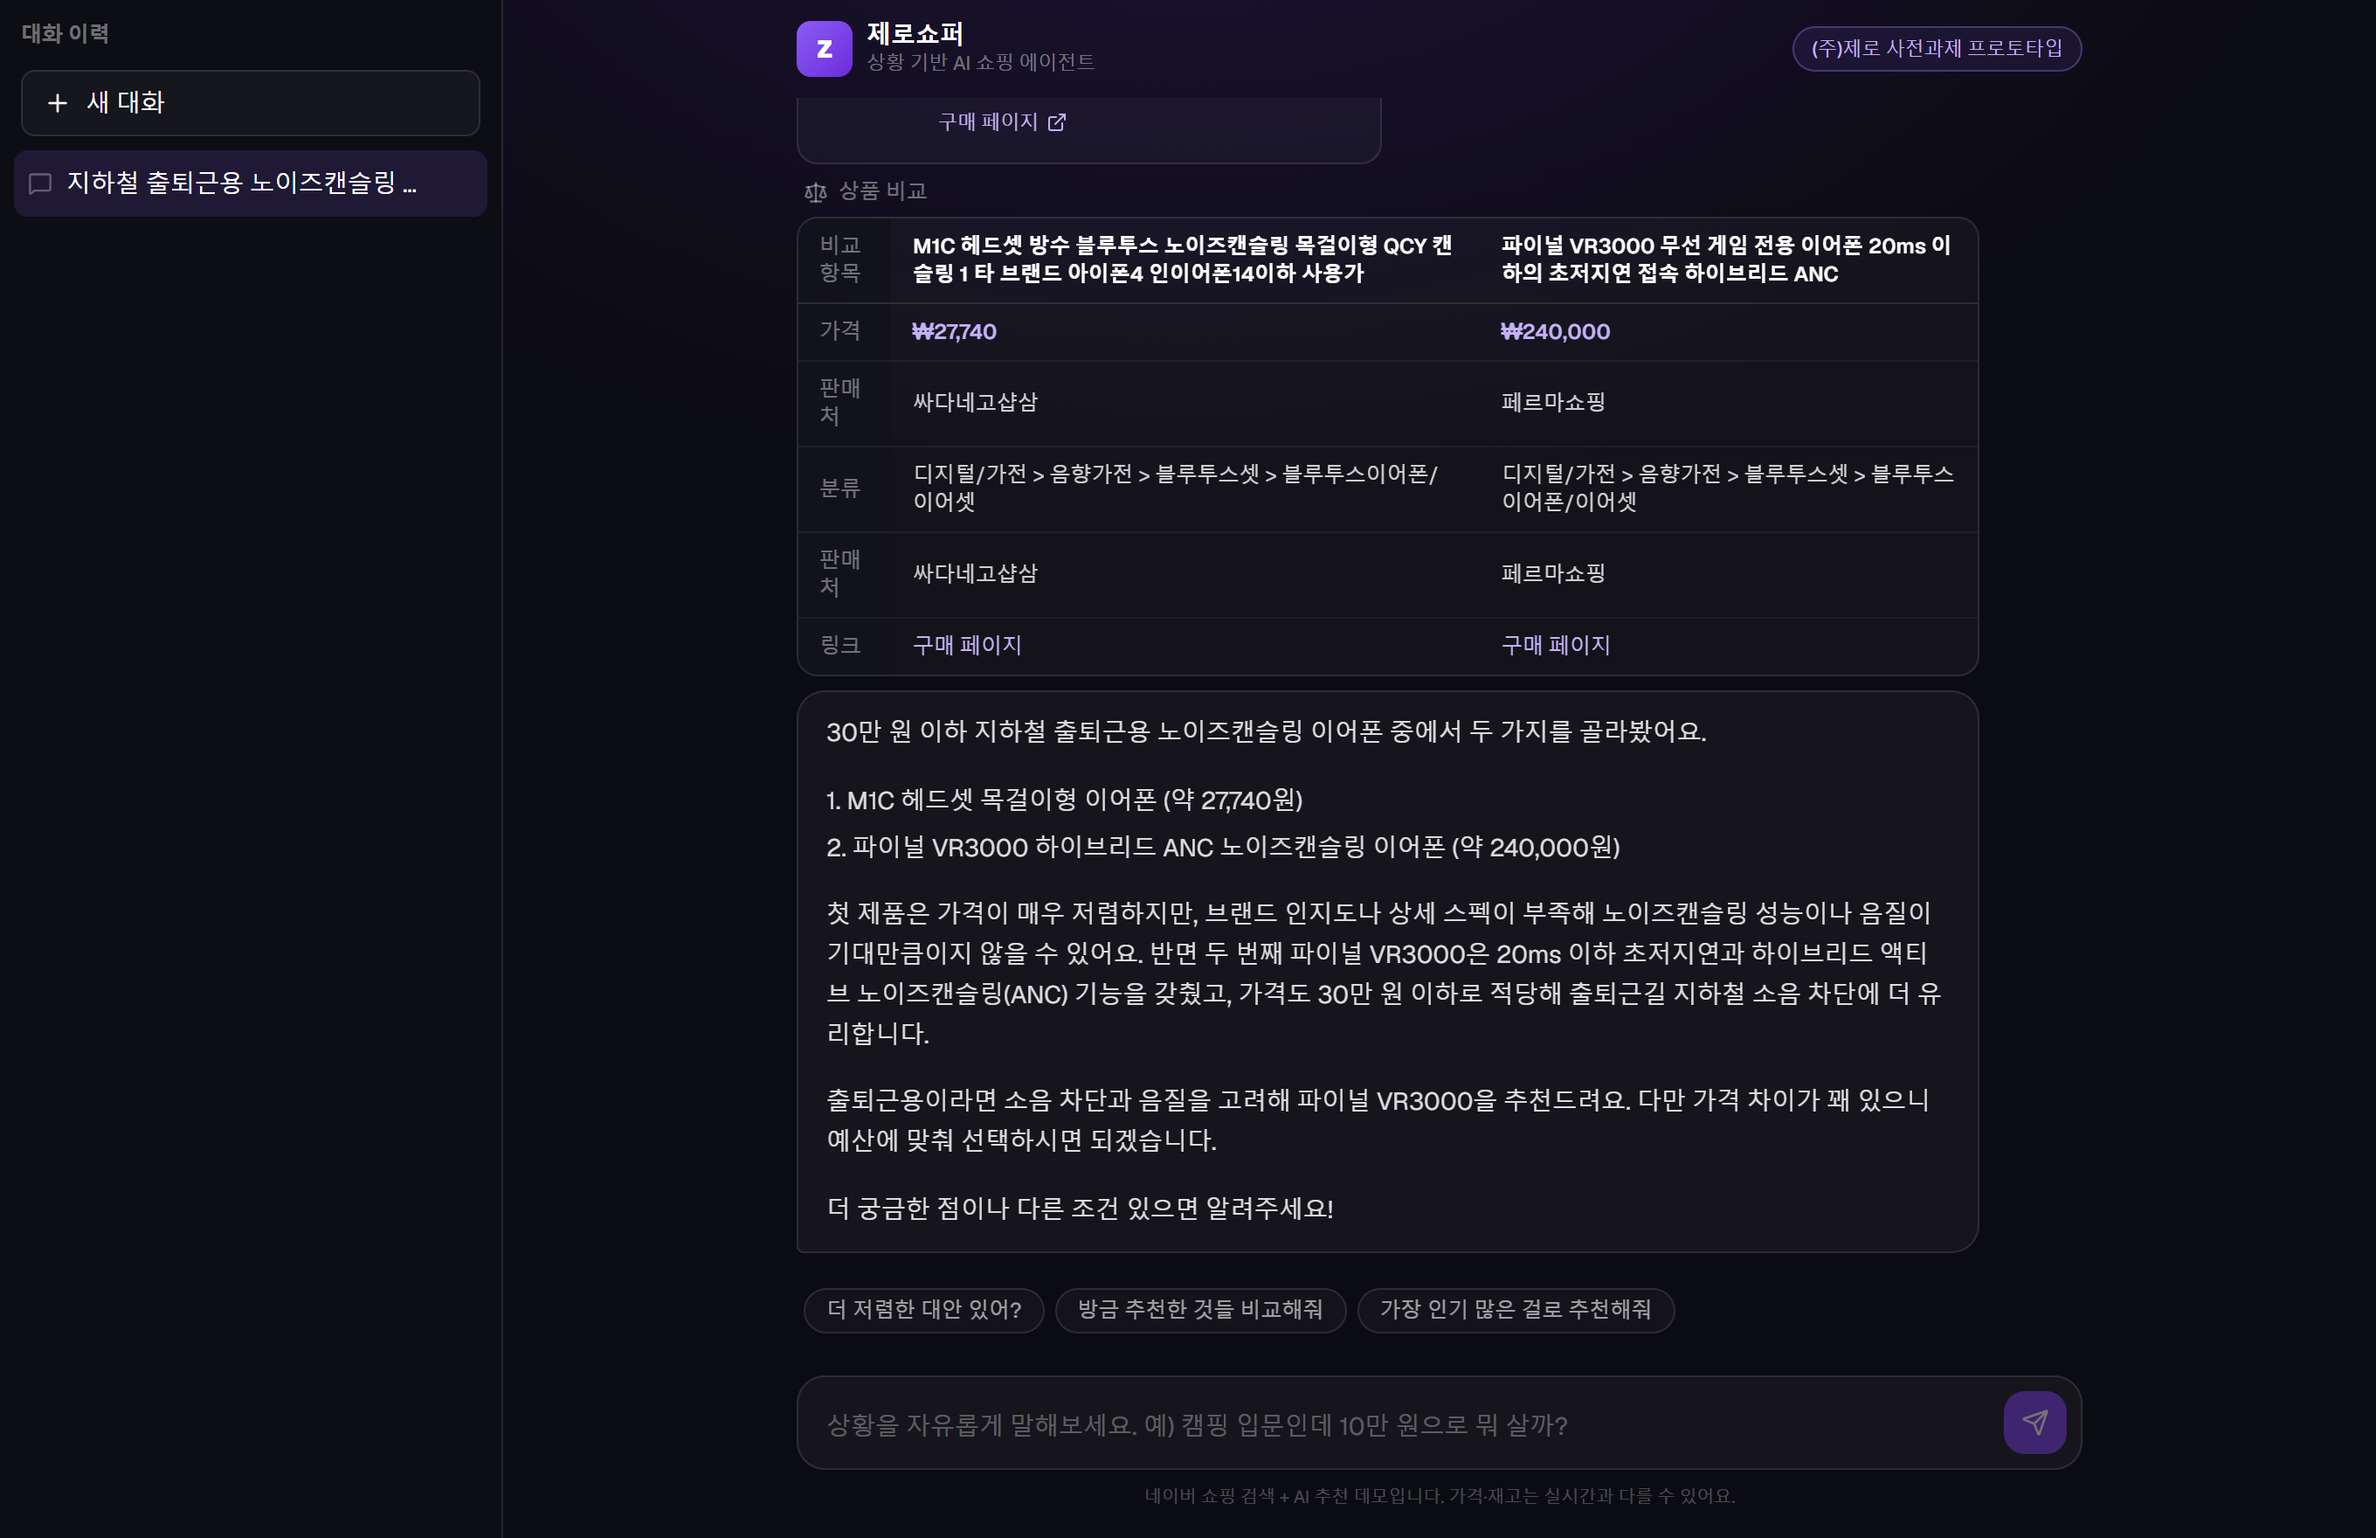
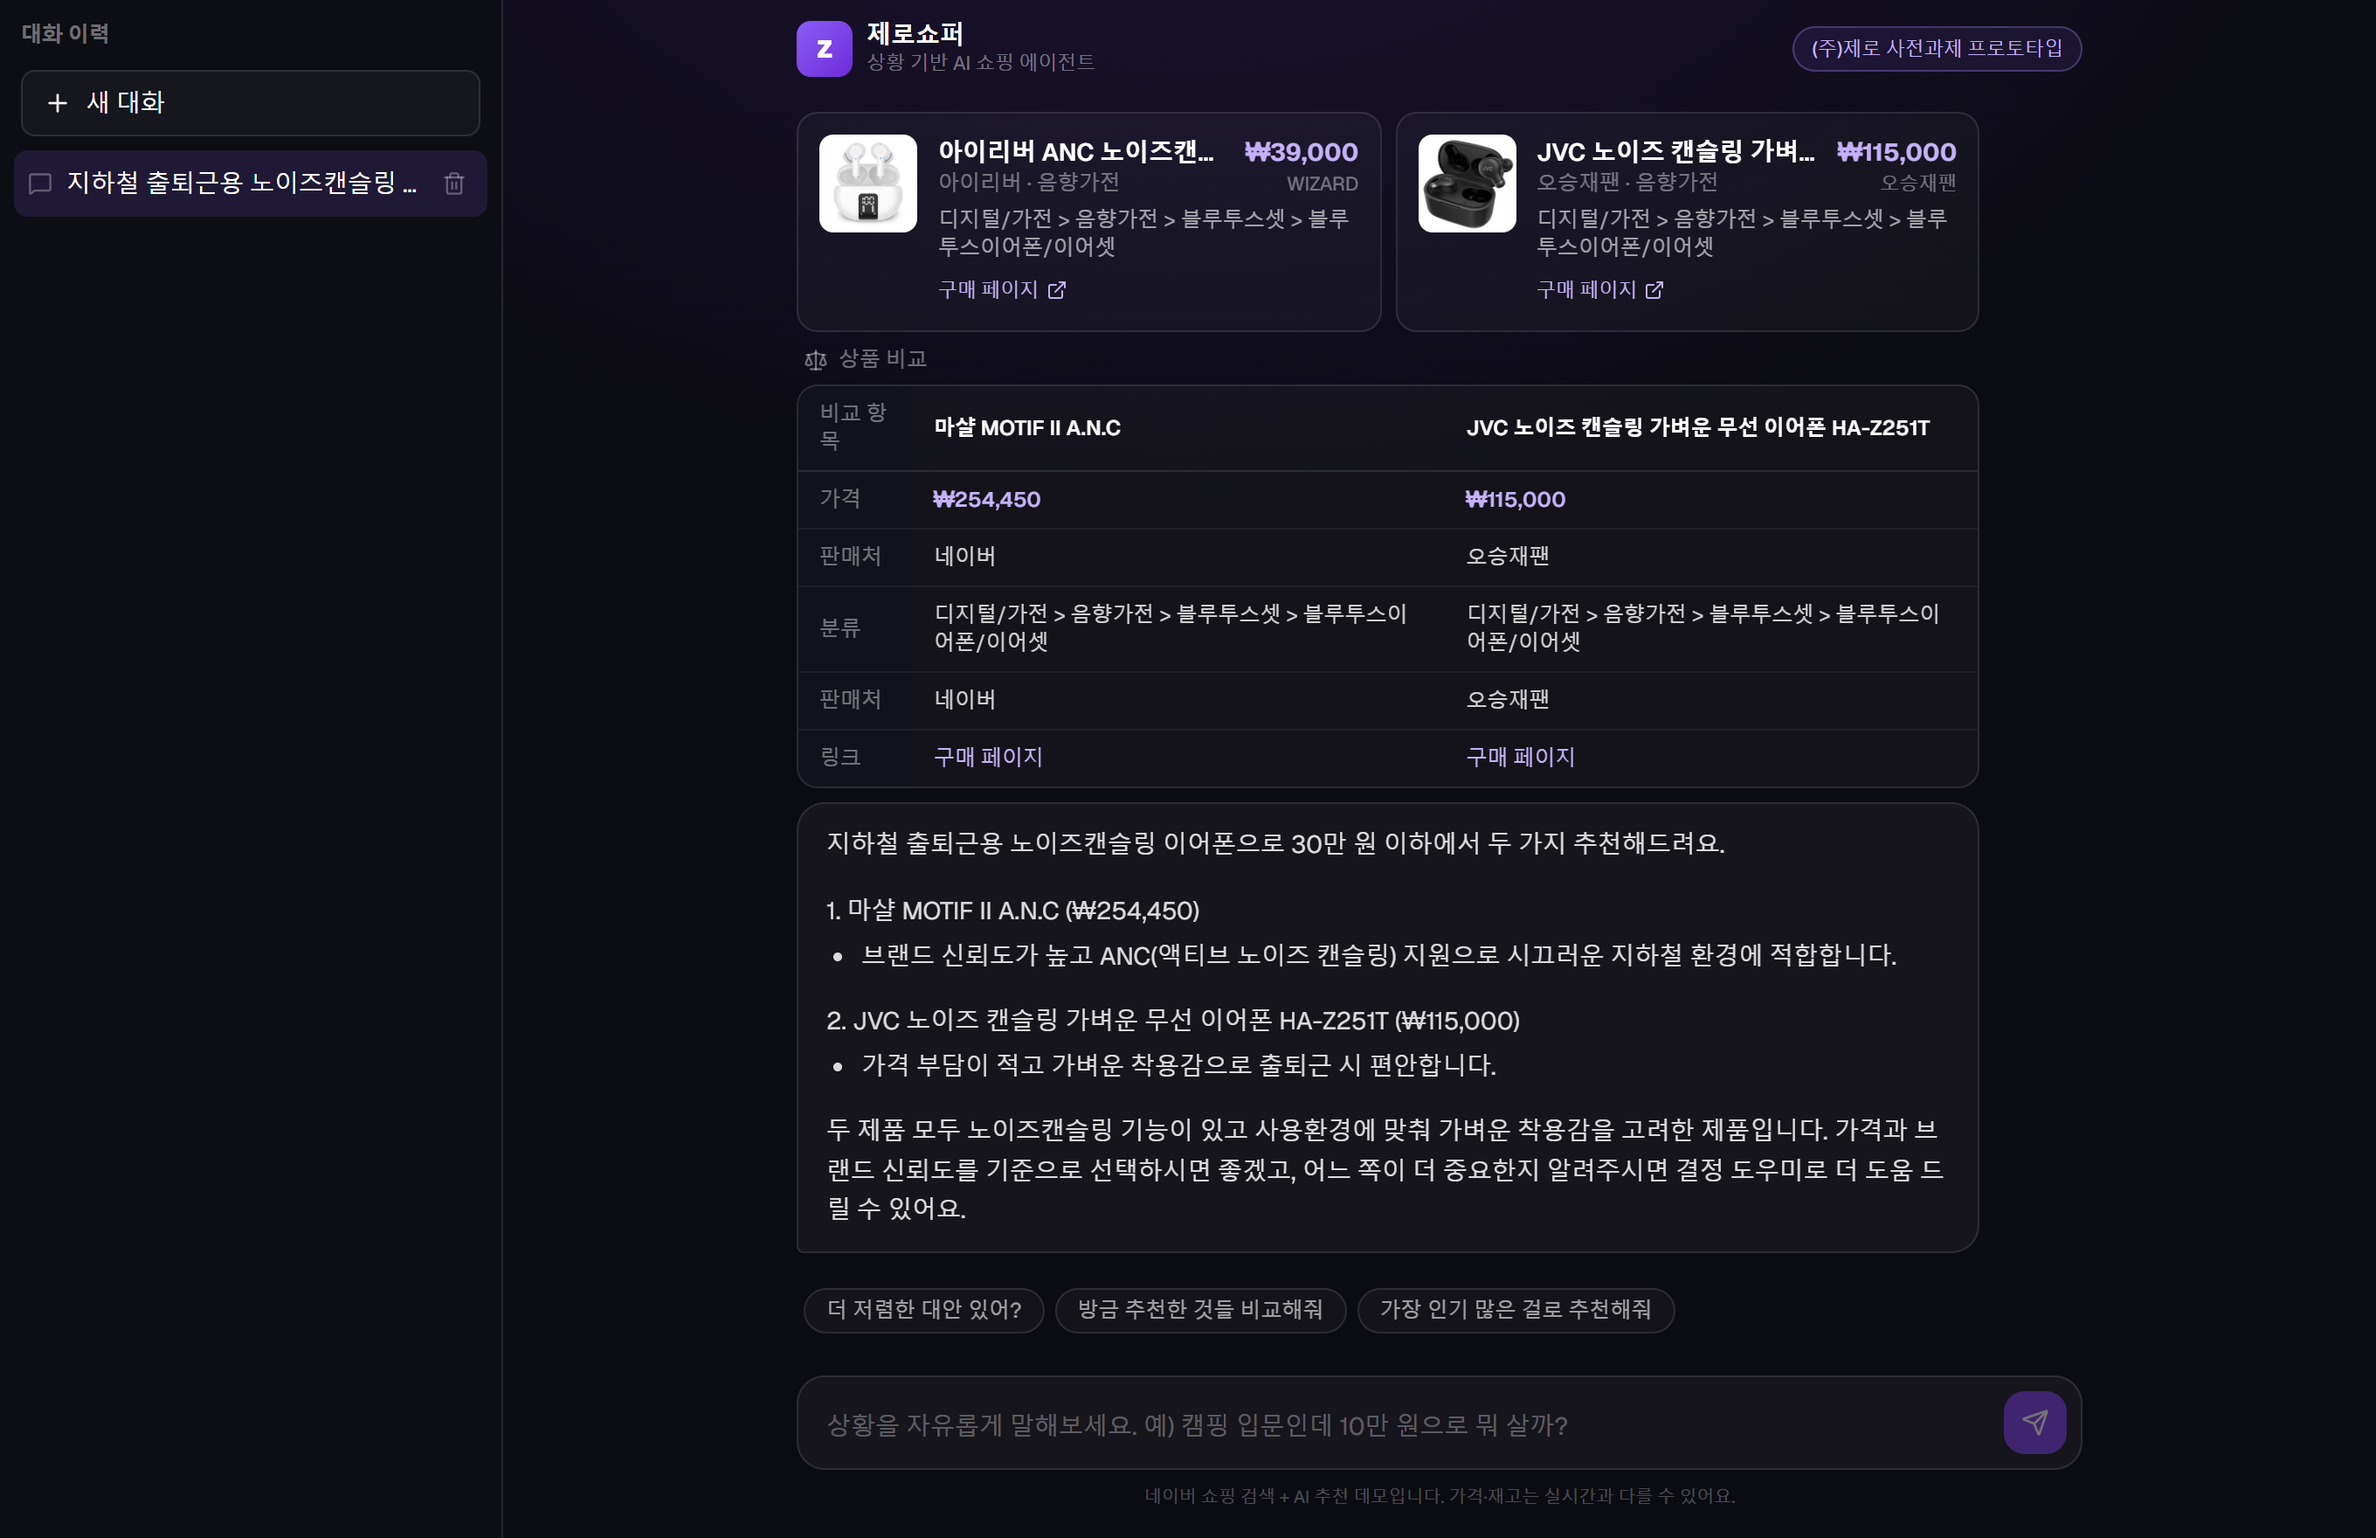
docs: 스크린샷 재생성 + 결정 도우미 캡처 추가
- shoot.mjs: 결정 도우미(트레이드오프 질문 카드) 캡처 단계 추가(LLM 트리거라 최대 3회 재시도)
- docs/screenshots: 전체 재생성 + 02c-decision.png 신규
- README 미리보기에 결정 도우미 스크린샷/설명 추가

Changed region(s): [[0.3438, 0.2188, 0.8125, 0.8125], [0.3438, 0.0625, 0.8438, 0.2188]]

diff --git a/README.md b/README.md
@@ -15,9 +15,13 @@
 
 ## 미리보기
 
-**상황을 말하면 → 네이버 쇼핑 실시간 검색 → 상품 카드 → 비교표 → 근거 기반 추천**, 그리고 모든 대화는 좌측 사이드바에 저장됩니다.
+**상황을 말하면 → 네이버 쇼핑 실시간 검색 → 상품 카드 → 비교표 → (필요 시) 결정 도우미 → 근거 기반 추천**, 그리고 모든 대화는 좌측 사이드바에 저장됩니다.
 
 ![검색 결과 · 상품 카드 · 대화 이력 사이드바](docs/screenshots/02-results.png)
+
+**결정 도우미** — 비교 후에도 우열이 안 갈리면, 사용자의 우선순위(트레이드오프)를 묻고 그 답에 맞는 최종 1택으로 좁혀 줍니다.
+
+![비교표 + 결정 도우미 카드](docs/screenshots/02c-decision.png)
 
 | 첫 화면 (상황 입력 유도) | 비교표 · 근거 기반 추천 |
 | :---: | :---: |
